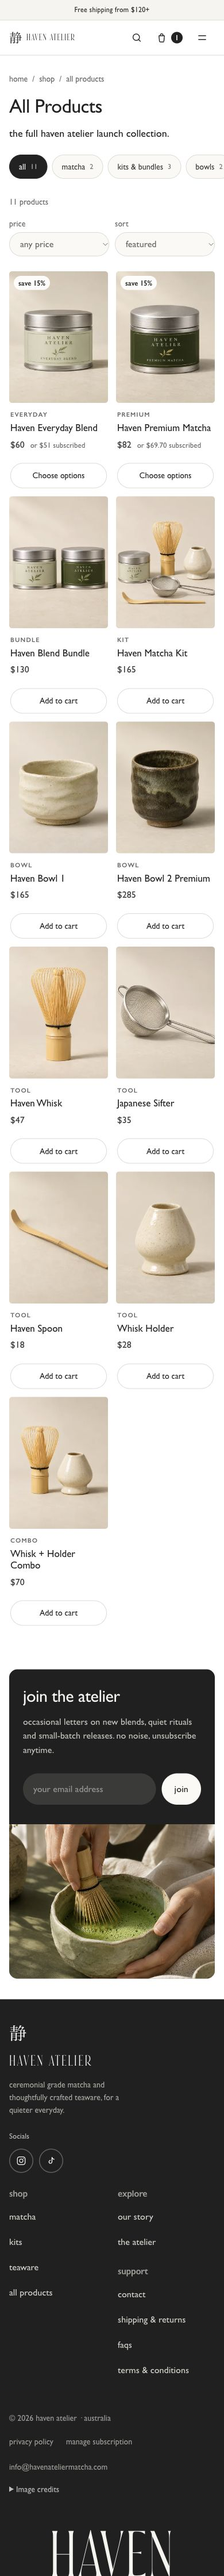
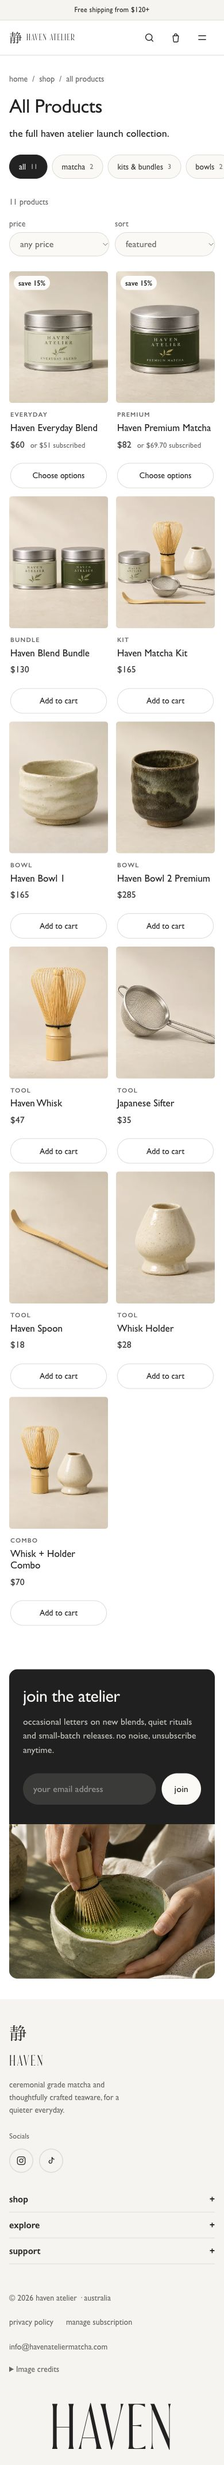
Align Haven review with Anna’s design and copy notes

diff --git a/app/src/components/Header.jsx b/app/src/components/Header.jsx
@@ -1,4 +1,4 @@
-import { useEffect, useState } from 'react';
+import { useEffect, useRef, useState } from 'react';
 import { Link, NavLink, useLocation } from 'react-router-dom';
 import { getProducts, money, nav } from '../data/catalogue';
 import { useCart } from '../store';
@@ -40,7 +40,10 @@ export default function Header() {
   const [menuOpen, setMenuOpen] = useState(false);
   const [shopOpen, setShopOpen] = useState(false);
   const [desktopShopMode, setDesktopShopMode] = useState(null);
-  const { add, count, setDrawerOpen } = useCart();
+  const desktopShop = useRef(null);
+  const mobileTrigger = useRef(null);
+  const mobileClose = useRef(null);
+  const { count, setDrawerOpen } = useCart();
   const location = useLocation();
 
   useEffect(() => {
@@ -61,6 +64,24 @@ export default function Header() {
     return () => document.body.classList.remove('no-scroll');
   }, [menuOpen]);
 
+  useEffect(() => {
+    if (!desktopShopMode) return;
+    function dismissOutside(event) {
+      if (!desktopShop.current?.contains(event.target)) setDesktopShopMode(null);
+    }
+    document.addEventListener('pointerdown', dismissOutside);
+    return () => document.removeEventListener('pointerdown', dismissOutside);
+  }, [desktopShopMode]);
+
+  useEffect(() => {
+    if (menuOpen) mobileClose.current?.focus();
+  }, [menuOpen]);
+
+  function closeMobileMenu() {
+    setMenuOpen(false);
+    mobileTrigger.current?.focus();
+  }
+
   return (
     <>
       <div className="announce">Free shipping from $120+</div>
@@ -76,9 +97,14 @@ export default function Header() {
               item.children ? (
                 <div
                   className="nav-item"
+                  ref={desktopShop}
                   key={item.label}
                   onMouseEnter={() => setDesktopShopMode((mode) => mode ?? 'hover')}
-                  onMouseLeave={() => setDesktopShopMode((mode) => mode === 'hover' ? null : mode)}
+                  onMouseLeave={(event) => {
+                    if (!event.currentTarget.querySelector('.nav-dropdown')?.contains(document.activeElement)) {
+                      setDesktopShopMode((mode) => mode === 'hover' ? null : mode);
+                    }
+                  }}
                   onBlur={(event) => { if (!event.currentTarget.contains(event.relatedTarget)) setDesktopShopMode(null); }}
                   onKeyDown={(event) => { if (event.key === 'Escape') { setDesktopShopMode(null); event.currentTarget.querySelector('button')?.focus(); } }}
                 >
@@ -125,20 +151,21 @@ export default function Header() {
               <BagIcon />
               {count > 0 && <span className="cart-count">{count}</span>}
             </button>
-            <button className="icon-btn burger" onClick={() => setMenuOpen(true)} aria-label="open menu">
+            <button className="icon-btn burger" ref={mobileTrigger} onClick={() => setMenuOpen(true)} aria-expanded={menuOpen} aria-controls="mobile-menu" aria-label="open menu">
               <MenuIcon />
             </button>
           </div>
         </div>
       </header>
 
-      <div className={`mobile-menu ${menuOpen ? 'open' : ''}`} aria-hidden={!menuOpen}>
+      <div id="mobile-menu" className={`mobile-menu ${menuOpen ? 'open' : ''}`} inert={!menuOpen}
+        onKeyDown={(event) => { if (event.key === 'Escape') closeMobileMenu(); }}>
         <div className="mobile-menu-top">
           <Link to="/" className="brand" onClick={() => setMenuOpen(false)}>
             <span className="brand-mark kanji">静</span>
             <span className="brand-word">haven atelier</span>
           </Link>
-          <button className="icon-btn" onClick={() => setMenuOpen(false)} aria-label="close menu" style={{ width: 42, height: 42 }}>
+          <button className="icon-btn" ref={mobileClose} onClick={closeMobileMenu} aria-label="close menu" style={{ width: 42, height: 42 }}>
             <CloseIcon />
           </button>
         </div>
@@ -149,12 +176,12 @@ export default function Header() {
                 <button
                   onClick={() => setShopOpen((v) => !v)}
                   style={{ display: 'flex', justifyContent: 'space-between', alignItems: 'center', width: '100%', fontFamily: 'var(--font-display)', fontSize: 'clamp(30px,8vw,44px)', lineHeight: 1.15, padding: '14px 0', color: 'var(--forest)', textAlign: 'left' }}
-                  aria-expanded={shopOpen}
+                  aria-expanded={shopOpen} aria-controls="mobile-shop-links"
                 >
                   {item.label} <span className="sub">{shopOpen ? '−' : '+'}</span>
                 </button>
                 {shopOpen && (
-                  <div className="mobile-sub">
+                  <div className="mobile-sub" id="mobile-shop-links">
                     {item.children.map((c) => (
                       <Link key={c.path} to={c.path} onClick={() => setMenuOpen(false)}>{c.label}</Link>
                     ))}
@@ -176,7 +203,7 @@ export default function Header() {
                 </Link>
                 <Link to={`/products/${product.handle}`} onClick={() => setMenuOpen(false)} className="mobile-menu-product-name">{product.short}</Link>
                 <span className="mobile-menu-product-price">{money(product.price)}</span>
-                <button type="button" onClick={() => { setMenuOpen(false); add(product.handle, 1, 'onetime'); }} aria-label={`add ${product.name} to cart`}>add to cart</button>
+                <Link className="mobile-menu-product-action" to={`/products/${product.handle}`} onClick={() => setMenuOpen(false)}>Choose options</Link>
               </article>
             ))}
           </div>

diff --git a/app/src/pages/Home.jsx b/app/src/pages/Home.jsx
@@ -1,3 +1,4 @@
+import { useState } from 'react';
 import { Link } from 'react-router-dom';
 import { getProducts } from '../data/catalogue';
 import ProductCard from '../components/ProductCard';
@@ -7,7 +8,7 @@ function Hero() {
   return (
     <section className="hero" aria-label="Haven Atelier Japanese matcha and teaware">
       <picture className="hero-media">
-        <source media="(max-width: 700px)" srcSet="/img/lifestyle/matcha-preparation.webp" type="image/webp" />
+        <source media="(max-width: 700px)" srcSet="/img/lifestyle/ritual-set-mobile.webp" type="image/webp" />
         <img src="/img/lifestyle/ritual-set.webp" alt="Matcha being prepared with a bamboo whisk, bowl and tea tin" fetchPriority="high" />
       </picture>
       <div className="hero-lockup">
@@ -18,15 +19,36 @@ function Hero() {
   );
 }
 
-function FeaturedGroup({ title, handles }) {
-  const items = getProducts(handles);
+const featuredGroups = [
+  { id: 'best-sellers', title: 'BEST SELLERS', handles: ['everyday-blend', 'haven-bowl-1'] },
+  { id: 'kits', title: 'KITS', handles: ['matcha-kit'] },
+];
+
+function FeaturedShop() {
+  const [selected, setSelected] = useState(0);
+  const group = featuredGroups[selected];
+
+  function moveTab(event) {
+    if (!['ArrowLeft', 'ArrowRight', 'Home', 'End'].includes(event.key)) return;
+    event.preventDefault();
+    const next = event.key === 'Home' ? 0 : event.key === 'End' ? featuredGroups.length - 1 : 1 - selected;
+    setSelected(next);
+    event.currentTarget.querySelectorAll('button')[next].focus();
+  }
+
   return (
-    <section className="section wrap home-shop" aria-label={title}>
-      <div className="shop-heading">
-        <h2>{title}</h2>
+    <section className="section wrap home-shop" aria-label="Featured products">
+      <div className="tabs shop-heading" role="tablist" aria-label="Featured products" onKeyDown={moveTab}>
+        {featuredGroups.map(({ id, title }, index) => (
+          <button key={id} type="button" id={`featured-${id}`} role="tab" aria-controls="featured-products"
+            aria-selected={selected === index} tabIndex={selected === index ? 0 : -1}
+            className={`tab-btn${selected === index ? ' active' : ''}`} onClick={() => setSelected(index)}>
+            {title}
+          </button>
+        ))}
       </div>
-      <div className="rail">
-        {items.map((product) => <ProductCard key={product.handle} product={product} />)}
+      <div id="featured-products" className="rail" role="tabpanel" aria-labelledby={`featured-${group.id}`}>
+        {getProducts(group.handles).map((product) => <ProductCard key={product.handle} product={product} showAlternate />)}
       </div>
     </section>
   );
@@ -83,7 +105,7 @@ function SubscribeSave() {
         <div className="subscribe-simple-copy">
           <h2>Subscribe &amp; save 15%</h2>
           <p>Choose Everyday Blend or Premium Matcha and receive 15% off each delivery.</p>
-          <p>Every 2 weeks · Every month · Every 2 months</p>
+          <p>Choose delivery every two weeks, every month or every two months.</p>
           <Link to="/collections/subscriptions" className="btn btn-primary">Shop subscriptions</Link>
         </div>
         <img src="/img/lifestyle/matcha-preparation.webp" alt="Matcha being whisked in a ceramic bowl" loading="lazy" />
@@ -96,8 +118,7 @@ export default function Home() {
   return (
     <main>
       <Hero />
-      <FeaturedGroup title="BEST SELLERS" handles={['everyday-blend', 'haven-bowl-1']} />
-      <FeaturedGroup title="KITS" handles={['matcha-kit', 'whisk-holder-combo']} />
+      <FeaturedShop />
       <Philosophy />
       <Tiles />
       <YouAndHaven />

diff --git a/app/src/components/Footer.jsx b/app/src/components/Footer.jsx
@@ -1,3 +1,4 @@
+import { useState } from 'react';
 import { Link } from 'react-router-dom';
 import { footerLinks, CONTACT_EMAIL } from '../data/catalogue';
 
@@ -17,26 +18,27 @@ function TikTokIcon() {
 }
 
 const socials = [
-  { label: 'instagram', href: 'https://www.instagram.com/', Icon: InstagramIcon },
-  { label: 'tiktok', href: 'https://www.tiktok.com/', Icon: TikTokIcon },
+  { label: 'instagram', Icon: InstagramIcon },
+  { label: 'tiktok', Icon: TikTokIcon },
 ];
 
 export default function Footer() {
+  const [expanded, setExpanded] = useState({});
   return (
     <footer className="site-footer">
       <div className="footer-main">
         <div className="footer-grid">
           <div className="footer-brand">
             <span className="kanji">静</span>
-            <span className="word">haven atelier</span>
+            <span className="word">HAVEN</span>
             <p>ceremonial grade matcha and thoughtfully crafted teaware, for a quieter everyday.</p>
             <div className="footer-social-wrap">
               <span className="footer-social-heading">Socials</span>
               <div className="footer-social">
-              {socials.map(({ label, href, Icon }) => (
-                <a key={label} href={href} target="_blank" rel="noopener noreferrer" className="social-btn" aria-label={label}>
+              {socials.map(({ label, Icon }) => (
+                <span key={label} className="social-btn" role="img" aria-label={label}>
                   <Icon />
-                </a>
+                </span>
               ))}
               </div>
             </div>
@@ -49,14 +51,17 @@ export default function Footer() {
               { title: 'support', links: footerLinks.support },
             ].map((col) => (
               <div className="footer-col" key={col.title}>
-                <h4>{col.title}</h4>
-                {col.links.map((l) =>
-                  l.external ? (
-                    <Link key={l.label} to="/pages/the-atelier">{l.label}</Link>
-                  ) : (
-                    <Link key={l.label} to={l.path}>{l.label}</Link>
-                  )
-                )}
+                <h4 className="footer-col-title">{col.title}</h4>
+                <button type="button" className="footer-col-toggle" aria-expanded={Boolean(expanded[col.title])}
+                  aria-controls={`footer-${col.title}`}
+                  onClick={() => setExpanded((current) => ({ ...current, [col.title]: !current[col.title] }))}>
+                  {col.title}<span aria-hidden="true">{expanded[col.title] ? '−' : '+'}</span>
+                </button>
+                <div id={`footer-${col.title}`} className="footer-col-links">
+                  {col.links.map((link) => (
+                    <Link key={link.label} to={link.external ? '/pages/the-atelier' : link.path}>{link.label}</Link>
+                  ))}
+                </div>
               </div>
             ))}
           </nav>

diff --git a/app/src/styles/app.css b/app/src/styles/app.css
@@ -1220,3 +1220,44 @@ h3 { font-size: clamp(21px, 2vw, 27px); }
   .subscribe-simple-grid { grid-template-columns: minmax(0, 1fr); }
   .subscribe-simple-grid > img { max-height: 440px; aspect-ratio: 4 / 3; }
 }
+
+.nav-shop-trigger[aria-expanded="true"] .caret { transform: rotate(180deg); }
+.mobile-sub a { font-size: 17px !important; min-height: 44px; padding-block: 8px; }
+.mobile-menu-product-action { margin-top: 8px; padding-block: 10px; font-size: var(--fs-sm); text-decoration: underline; text-underline-offset: 4px; }
+.home-shop .shop-heading { justify-content: center; }
+.home-shop .rail { grid-auto-columns: minmax(0, 320px); }
+.card-alternate { display: none; }
+@media (min-width: 961px) and (hover: hover) and (pointer: fine) {
+  .home-shop .card-alternate {
+    display: block; position: absolute; inset: 0; width: 100%; height: 100%; object-fit: cover;
+    opacity: 0; transition: opacity .2s;
+  }
+  .home-shop .card:hover .card-alternate, .home-shop .card:focus-within .card-alternate { opacity: 1; }
+  .home-shop .card-foot { opacity: 0; transition: opacity .2s; }
+  .home-shop .card:hover .card-foot, .home-shop .card:focus-within .card-foot { opacity: 1; }
+}
+@media (max-width: 700px) {
+  .home-shop .rail { grid-auto-columns: minmax(0, min(72vw, 290px)); }
+}
+
+.site-footer { background: var(--surface); color: var(--ink); }
+.footer-brand .kanji, .footer-giant, .footer-col a, .social-btn { color: var(--ink); }
+.footer-brand p, .footer-col h4, .footer-legal-row, .footer-credits,
+.footer-credits a, .footer-credits summary, .footer-social-heading { color: var(--muted); }
+.footer-col a:hover, .footer-credits a:hover { color: var(--ink); }
+.social-btn { border-color: var(--line); }
+.social-btn:hover { border-color: var(--line); background: transparent; }
+.footer-giant { transform: none; padding-bottom: .14em; }
+.footer-col-toggle { display: none; }
+
+@media (max-width: 800px) {
+  .footer-nav { display: block; }
+  .footer-col { border-bottom: 1px solid var(--line); }
+  .footer-col-title { display: none; }
+  .footer-col-toggle {
+    display: flex; justify-content: space-between; align-items: center;
+    min-height: 44px; width: 100%; text-align: left; font-weight: 600;
+  }
+  .footer-col-toggle[aria-expanded="false"] + .footer-col-links { display: none; }
+  .footer-col-links { padding-bottom: 8px; }
+}

diff --git a/app/src/components/ProductCard.jsx b/app/src/components/ProductCard.jsx
@@ -1,14 +1,17 @@
 import { Link } from 'react-router-dom';
 import ProductImage from './ProductImage';
+import { lifestyleImages } from '../data/lifestyle';
 import { money } from '../data/catalogue';
 import { useCart } from '../store';
-export default function ProductCard({ product, quickAdd = true, showTag = false }) {
+export default function ProductCard({ product, quickAdd = true, showTag = false, showAlternate = false }) {
   const { add } = useCart();
   const canSub = product.subPrice != null;
+  const alternate = showAlternate ? lifestyleImages(product)[0] : null;
   return (
     <article className="card">
-      <Link to={`/products/${product.handle}`} className={`card-media ${['blend-bundle', 'matcha-kit', 'whisk-holder-combo'].includes(product.handle) ? 'media-wide' : ''}`} aria-label={product.name}>
+      <Link to={`/products/${product.handle}`} className="card-media" aria-label={product.name}>
         <ProductImage product={product} sizes="(max-width: 720px) 280px, (max-width: 1080px) 33vw, 440px" decorative />
+        {alternate && <img className="card-alternate" src={alternate.src} alt="" loading="lazy" />}
         {canSub && <span className="card-badge">save 15%</span>}
       </Link>
       <div className="card-body">

diff --git a/app/src/store.jsx b/app/src/store.jsx
@@ -22,15 +22,16 @@ export function CartProvider({ children }) {
     localStorage.setItem(KEY, JSON.stringify(lines));
   }, [lines]);
 
-  const add = (handle, qty = 1, plan = 'onetime') => {
+  const add = (handle, qty = 1, plan = 'onetime', interval = '1m') => {
+    const delivery = plan === 'subscription' ? { interval } : {};
     setLines((prev) => {
       const i = prev.findIndex((l) => l.handle === handle && l.plan === plan);
       if (i >= 0) {
         const next = [...prev];
-        next[i] = { ...next[i], qty: next[i].qty + qty };
+        next[i] = { ...next[i], ...delivery, qty: next[i].qty + qty };
         return next;
       }
-      return [...prev, { handle, qty, plan }];
+      return [...prev, { handle, qty, plan, ...delivery }];
     });
     setDrawerOpen(true);
     setOfferTab('cart');

diff --git a/app/src/data/catalogue.js b/app/src/data/catalogue.js
@@ -5,7 +5,7 @@ export const FREE_SHIPPING_THRESHOLD = 120;
 export const FLAT_SHIPPING = 9.95;
 export const SUB_DISCOUNT = 0.15;
 export const CONTACT_EMAIL = 'info@havenateliermatcha.com';
-export const SHIPPING_COPY = 'Australia only. Free shipping on goods totals of $120 or more after discounts. Flat $9.95 below $120. These rules apply to each subscription delivery. Estimated delivery is 2–8 business days from ordering, subject to confirmation.';
+export const SHIPPING_COPY = 'We ship within Australia. Shipping is $9.95 on orders under $120 and free on orders of $120 or more. We calculate your order total after discounts. The same rates apply to each subscription delivery. Orders typically arrive within 2–8 business days.';
 
 export const INTERVALS = [
   { id: '2w', label: 'every 2 weeks', days: 14 },

diff --git a/app/src/pages/Product.jsx b/app/src/pages/Product.jsx
@@ -166,7 +166,7 @@ export default function Product() {
 
               <button
                 className="btn btn-primary btn-block"
-                onClick={() => add(product.handle, qty, plan === 'subscription' ? 'subscription' : 'onetime')}
+                onClick={() => add(product.handle, qty, canSub ? plan : 'onetime', interval)}
               >
                 {plan === 'subscription' ? 'add subscription to cart' : 'add to cart'}
               </button>
